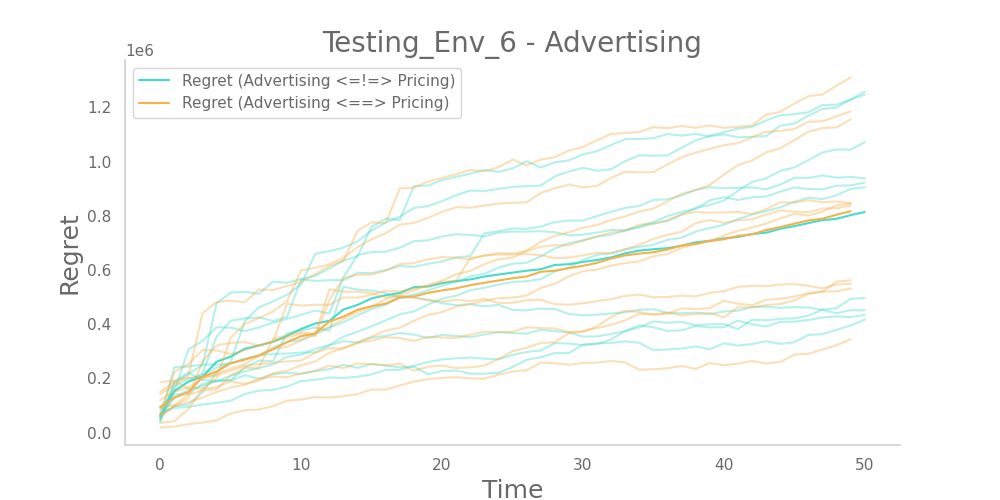
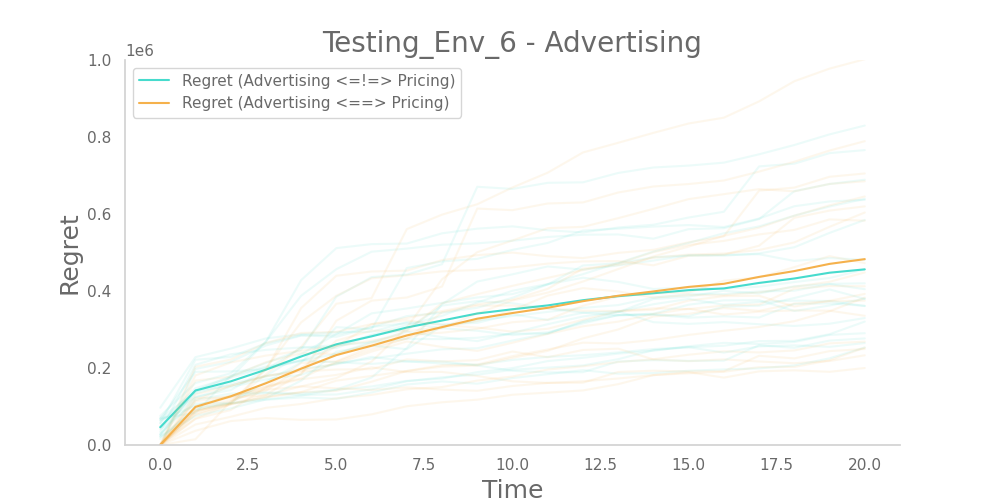
backup

diff --git a/project/part_6/Testing_Env_6.py b/project/part_6/Testing_Env_6.py
@@ -14,7 +14,7 @@ from project.part_6.BudgetAllocator import BudgetAllocator
 
 # np.random.seed(0)
 
-enable_pricing = True
+enable_pricing = False
 plot_advertising = False
 
 
@@ -90,7 +90,7 @@ if __name__ == '__main__':
     # plt.legend()
     # plt.show()
 
-    n_experiments = 10  # the number is small to do a raw test, otherwise set it to 1000
+    n_experiments = 20  # the number is small to do a raw test, otherwise set it to 1000
     agnostic_regret_per_experiment = []  # collect all the regrets achieved
     regret_per_experiment = []
     args = [{'environment': copy.deepcopy(base_env), 'index': idx, 'multiclasshandler': mch}
@@ -103,21 +103,23 @@ if __name__ == '__main__':
         agnostic_regret_per_experiment.append(result['agnostic_regret'])
         regret_per_experiment.append(result['regret'])
 
-    title = ' & Pricing' if enable_pricing else ''
+    title = ' & Pricing (mul by v)' if enable_pricing else ''
     title = f'Testing_Env_6 - Advertising{title}'
     plt.title(title, fontsize=20)
 
     for agnostic_regret in agnostic_regret_per_experiment:
-        plt.plot(np.cumsum(agnostic_regret), alpha=0.4, c='C2')
+        plt.plot(np.cumsum(agnostic_regret), alpha=0.1, c='C2')
     plt.plot(np.cumsum(np.mean(agnostic_regret_per_experiment, axis=0)),
-             c='C2',
-             label='Regret (Advertising <=!=> Pricing)')
+             c='C2', label='Regret (Advertising <=!=> Pricing)')
 
     for regret in regret_per_experiment:
-        plt.plot(np.cumsum(regret), alpha=0.4, c='C3')
-    plt.plot(np.cumsum(np.mean(regret_per_experiment, axis=0)), c='C3', label='Regret (Advertising <==> Pricing)')
+        plt.plot(np.cumsum(regret), alpha=0.1, c='C3')
+    plt.plot(np.cumsum(np.mean(regret_per_experiment, axis=0)),
+             c='C3', label='Regret (Advertising <==> Pricing)')
+
     plt.xlabel('Time')
     plt.ylabel('Regret')
+    plt.ylim([0, 1e6])
     plt.legend()
 
     plt.savefig('other_files/' + title + '.png')

diff --git a/project/part_6/BudgetAllocator.py b/project/part_6/BudgetAllocator.py
@@ -32,7 +32,7 @@ class BudgetAllocator:
 
         self.best_allocation = self.day_zero_initialization()
 
-        self.regret = []
+        self.regret = [0]
         self.optimal_total_revenue = self.get_optimal_total_revenue()
 
     def day_zero_initialization(self):
@@ -53,9 +53,9 @@ class BudgetAllocator:
             learner_clicks = subcampaign_handler.get_updated_parameters().means
 
             # TODO: Decidere come trattare le V: solo ultimo giorno? O tutto lo storico?
-            # n_clicks = subcampaign_handler.total_clicks
-            # v = subcampaign_handler.total_revenue / n_clicks if n_clicks != 0 else 0
-            v = subcampaign_handler.price
+            n_clicks = subcampaign_handler.total_clicks
+            v = subcampaign_handler.total_revenue / n_clicks if n_clicks != 0 else 0
+            # v = subcampaign_handler.price
             revenue_clicks = np.multiply(learner_clicks, v) if self.enable_pricing else learner_clicks
 
             table_all_subs = np.append(table_all_subs, np.atleast_2d(revenue_clicks.T), 0)

diff --git a/project/dia_pckg/SubCampaign.py b/project/dia_pckg/SubCampaign.py
@@ -11,6 +11,8 @@ class SubCampaign:
         :param product: Product object
         :param campaign: Campaign object
         """
+        # np.random.seed(0)
+
         self.bids = bids
         self.sigma = sigma
         self.max_n_clicks = max_n_clicks

diff --git a/project/dia_pckg/Config.py b/project/dia_pckg/Config.py
@@ -4,7 +4,7 @@
 
 # campaign
 initial_date = '20200101'
-n_days = 50
+n_days = 20
 
 # Seller wallet and ambitions
 seller_max_budget = 20000  # $
